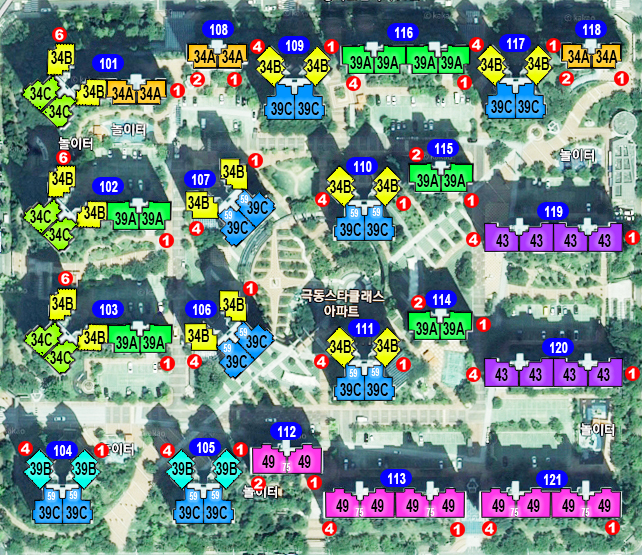
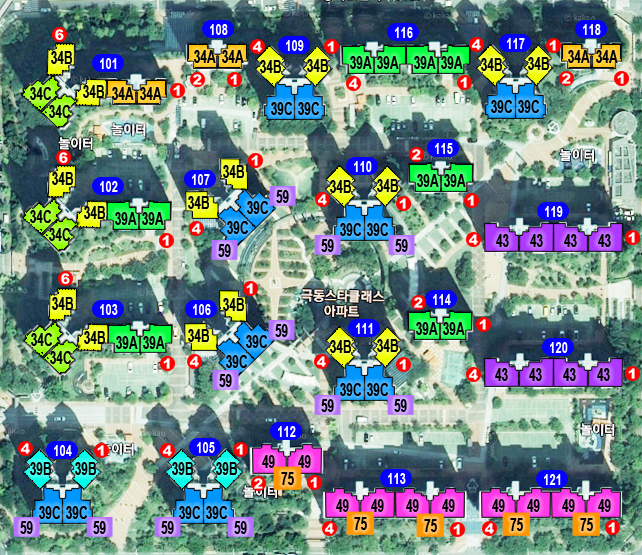
feat: vr-test 모바일 레이아웃 개선 및 파일 정리

diff --git a/app/vr-test/page.tsx b/app/vr-test/page.tsx
@@ -1193,18 +1193,17 @@ function FloorPlanView({ complex, onBack }: { complex: VRComplex; onBack: () => 
   }
 
   return (
-    <div className="flex gap-6 p-4 md:p-6 min-h-screen">
-      {/* 왼쪽 패널 */}
-      <div className="w-72 flex-shrink-0 flex flex-col gap-4">
+    <div className="flex flex-col md:flex-row gap-4 md:gap-6 p-0 md:p-6 min-h-screen">
+
+      {/* 상단(모바일) / 왼쪽(데스크톱) 패널 */}
+      <div className="md:w-72 md:flex-shrink-0 flex flex-col gap-3 px-4 pt-4 md:px-0 md:pt-0">
         <button onClick={onBack} className="flex items-center gap-1.5 text-gray-700 hover:text-gray-900 text-sm">
           <ChevronLeft size={16} /> 목록으로
         </button>
         <div>
-          <h2 className="text-gray-900 text-3xl font-bold mb-3">{complex.name}</h2>
-          <p className="text-gray-500 text-sm">배치도에서 면적을 누르면 VR로 연결됩니다.</p>
-          <p className="text-gray-500 text-sm mt-0.5">확대하시면 더 편리합니다.</p>
+          <h2 className="text-gray-900 text-2xl md:text-3xl font-bold mb-1 md:mb-8">{complex.name}</h2>
         </div>
-        <div className="flex flex-col gap-1.5">
+        <div className="hidden md:flex flex-col gap-1.5 mt-6">
           {complex.types.map((type) => {
             const cfg = typeColor(key, type);
             const sqm = areaMap[type];
@@ -1218,8 +1217,9 @@ function FloorPlanView({ complex, onBack }: { complex: VRComplex; onBack: () => 
         </div>
       </div>
 
-      {/* 오른쪽 배치도 */}
-      <div className="flex-1 flex justify-center items-start">
+      {/* 배치도 */}
+      <div className="flex-1 flex flex-col justify-start">
+        <p className="hidden md:block text-gray-900 text-xl font-bold mb-3 text-center">배치도에서 면적을 누르면 VR로 연결됩니다. 확대하시면 더 편리합니다.</p>
         <div className={`w-full ${COMPLEX_MAX_WIDTH[key] ?? "max-w-4xl"} overflow-hidden rounded-xl`}>
           <TransformWrapper
             minScale={1}
@@ -1262,13 +1262,13 @@ function FloorPlanView({ complex, onBack }: { complex: VRComplex; onBack: () => 
                         cursor: "pointer",
                       }}
                     />
-
                   );
                 })}
               </div>
             </TransformComponent>
           </TransformWrapper>
         </div>
+        <p className="md:hidden text-gray-900 text-base font-bold mt-3 px-4 text-center">배치도에서 면적을 누르면 VR로 연결됩니다. 확대하시면 더 편리합니다.</p>
       </div>
     </div>
   );
